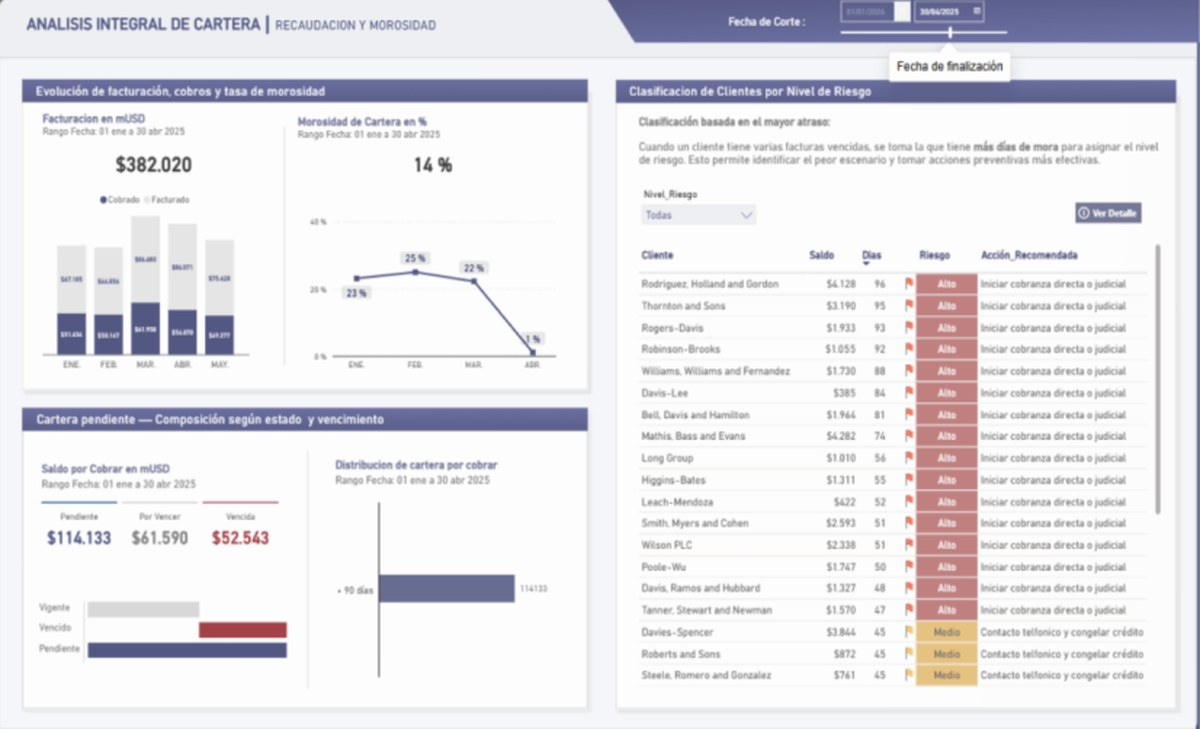
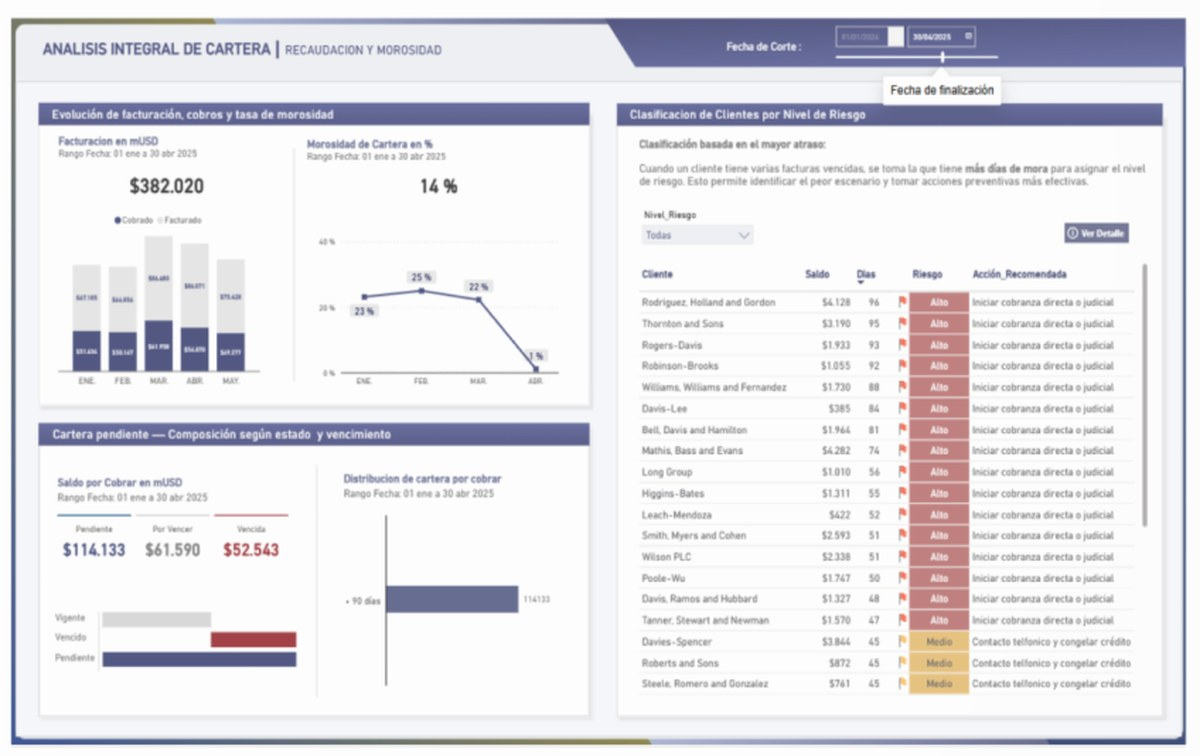
Actualziar lenguaje

diff --git a/components/portfolio/language-provider.tsx b/components/portfolio/language-provider.tsx
@@ -1,6 +1,6 @@
 'use client'
 
-import { createContext, useCallback, useContext, useMemo, useState } from 'react'
+import { createContext, useCallback, useContext, useEffect, useMemo, useState } from 'react'
 import { dictionaries, type Dictionary, type Locale } from '@/lib/i18n'
 
 type LanguageContextValue = {
@@ -11,12 +11,61 @@ type LanguageContextValue = {
 
 const LanguageContext = createContext<LanguageContextValue | null>(null)
 
+// Idioma con el que se genera la página y al que se vuelve si no se puede detectar nada
+const DEFAULT_LOCALE: Locale = 'es'
+const STORAGE_KEY = 'portfolio-locale'
+
+// Orden de prioridad:
+// 1) Enlace con ?lang=en o ?lang=es (sirve para compartir la web en un idioma concreto y para probarla).
+// 2) El idioma que la persona eligió antes con el selector.
+// 3) El idioma principal de su navegador: español -> 'es', cualquier otro -> 'en'.
+function detectLocale(): Locale {
+  const fromUrl = new URLSearchParams(window.location.search).get('lang')
+  if (fromUrl === 'es' || fromUrl === 'en') {
+    try {
+      window.localStorage.setItem(STORAGE_KEY, fromUrl)
+    } catch {
+      // si no se puede guardar, igual se usa en esta visita
+    }
+    return fromUrl
+  }
+  try {
+    const saved = window.localStorage.getItem(STORAGE_KEY)
+    if (saved === 'es' || saved === 'en') return saved
+  } catch {
+    // el navegador puede bloquear el almacenamiento; se sigue con la detección
+  }
+  const preferred = (navigator.languages?.[0] ?? navigator.language ?? '').toLowerCase()
+  if (!preferred) return DEFAULT_LOCALE
+  return preferred.startsWith('es') ? 'es' : 'en'
+}
+
 export function LanguageProvider({ children }: { children: React.ReactNode }) {
-  const [locale, setLocaleState] = useState<Locale>('en')
+  // El primer render usa siempre el idioma por defecto (así coincide con la página ya generada);
+  // al cargar en el navegador se ajusta al idioma detectado o guardado.
+  const [locale, setLocaleState] = useState<Locale>(DEFAULT_LOCALE)
+  const [ready, setReady] = useState(false)
+
+  useEffect(() => {
+    const detected = detectLocale()
+    setLocaleState(detected)
+    setReady(true)
+    document.documentElement.lang = detected
+  }, [])
+
+  // Cuando el idioma ya está aplicado, se muestra la página (ver el script de layout.tsx y globals.css)
+  useEffect(() => {
+    if (ready) document.documentElement.classList.remove('lang-pending')
+  }, [ready])
 
   const setLocale = useCallback((next: Locale) => {
     setLocaleState(next)
     document.documentElement.lang = next
+    try {
+      window.localStorage.setItem(STORAGE_KEY, next)
+    } catch {
+      // si no se puede guardar, el cambio sigue valiendo para esta visita
+    }
   }, [])
 
   const value = useMemo(() => ({ locale, t: dictionaries[locale], setLocale }), [locale, setLocale])

diff --git a/app/layout.tsx b/app/layout.tsx
@@ -17,10 +17,14 @@ const plexMono = IBM_Plex_Mono({
   display: 'swap',
 })
 
+// Se ejecuta antes de pintar la página: si el idioma que corresponde es inglés, oculta la página un instante
+// para que no se vea primero en español. Si algo falla, a los 2,5 s se muestra igual.
+const languageScript = `(function(){try{var d=document.documentElement;var p=new URLSearchParams(location.search).get('lang');var s=null;try{s=localStorage.getItem('portfolio-locale')}catch(e){}var l=(p==='es'||p==='en')?p:(s==='es'||s==='en')?s:null;if(!l){var n=((navigator.languages&&navigator.languages[0])||navigator.language||'').toLowerCase();l=(n&&n.indexOf('es')!==0)?'en':'es'}d.lang=l;if(l==='en'){d.classList.add('lang-pending');setTimeout(function(){d.classList.remove('lang-pending')},2500)}}catch(e){}})();`
+
 export const metadata: Metadata = {
   title: 'Fabricio Coque — Financial Data Analyst · BI & Automation',
   description:
-    'Financial data analyst building automated reconciliations, invoice extraction, and Power BI reports for accounting and finance teams.',
+    'Analista de datos financieros: conciliaciones automatizadas, extracción de facturas y reportes en Power BI para equipos de contabilidad y finanzas.',
   icons: {
     icon: [
       { url: '/icon-light-32x32.png', media: '(prefers-color-scheme: light)' },
@@ -42,7 +46,10 @@ export default function RootLayout({
   children: React.ReactNode
 }>) {
   return (
-    <html lang="en" className={`${plexSans.variable} ${plexMono.variable}`}>
+    <html lang="es" className={`${plexSans.variable} ${plexMono.variable}`} suppressHydrationWarning>
+      <head>
+        <script dangerouslySetInnerHTML={{ __html: languageScript }} />
+      </head>
       <body className="antialiased">
         <LanguageProvider>{children}</LanguageProvider>
         {process.env.NODE_ENV === 'production' && <Analytics />}

diff --git a/app/globals.css b/app/globals.css
@@ -73,3 +73,7 @@
     @apply bg-background text-foreground font-sans;
   }
 }
+
+html.lang-pending body {
+  visibility: hidden;
+}
